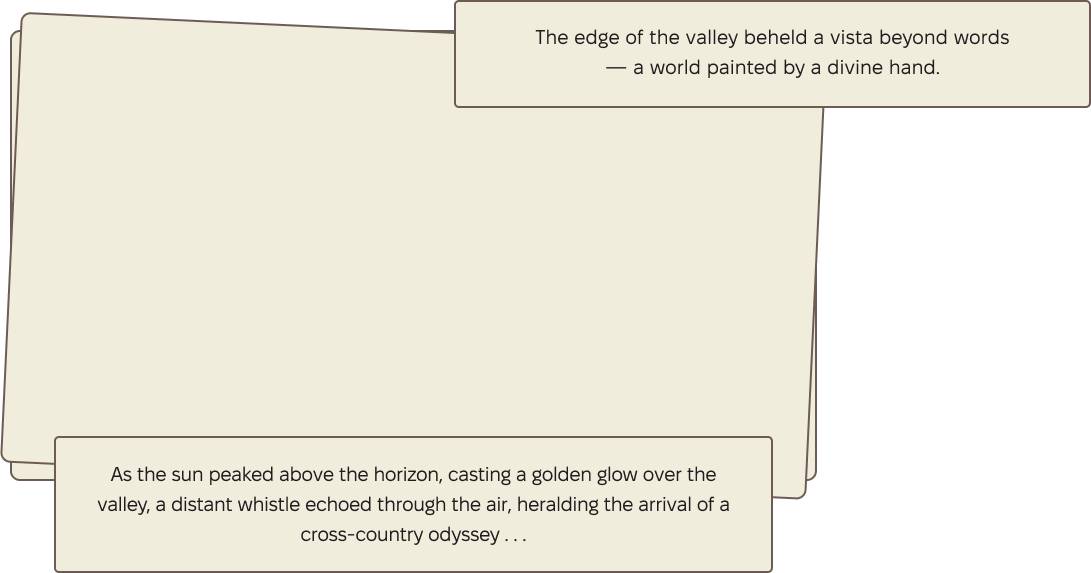
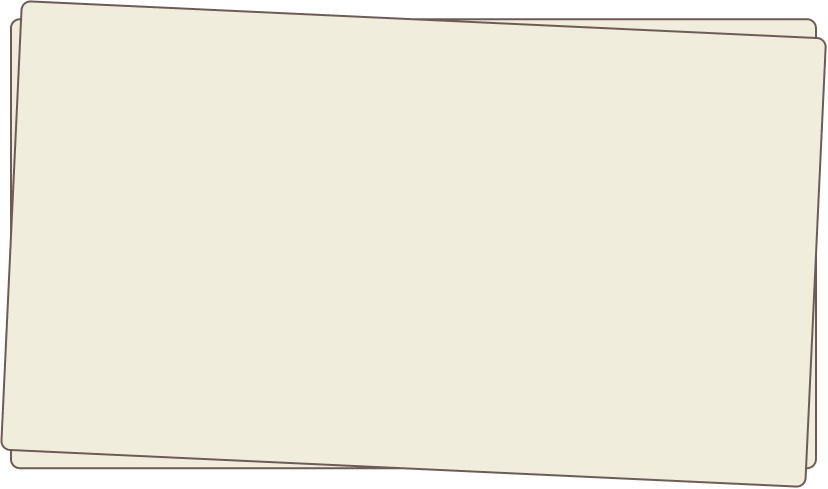
added correct page

diff --git a/src/app/page.tsx b/src/app/page.tsx
@@ -89,16 +89,21 @@ export default function Home() {
             exit={{ y: 1000, transition: { ease: "backIn", duration: 0.7 } }}
             transition={{ duration: 1, ease: "backInOut", delay: 0.5 }}
           >
+              <div className="border-2 rounded-[5px] border-[#6D5C55] text-center sm:text-[16px] text-[10px] sm:px-2 sm:py-4  py-4 px-1 absolute bg-[#F1EDDD] sm:bottom-[44rem]  bottom-[40rem] sm:right-[20rem] right-[0.8rem]">
+              The edge of the valley beheld a vista beyond words <br>
+              </br>  — a world painted by a divine hand.
+              </div>
             <div className="flex-1 flex items-center justify-center">
+            
               <img
-                src="/art-4.png"
+                src="/art-3.png"
                 alt="Art 3"
                 className="sm:max-w-xl max-w-[350px]"
               />
-              <div className="border-2 rounded-[5px] border-[#6D5C55] text-center sm:text-[16px] text-[10px] sm:px-6 py-5 px-2 absolute bg-[#F1EDDD] sm:bottom-[22rem] bottom-[26rem]  ">
-                In the beginning, whispers carried tales of a hidden valley
-                untouched<br></br> by humanity, where emerald forest danced with
-                mist and sapphire<br></br> lakes mirrored the sky
+              <div className="border-2 rounded-[5px] border-[#6D5C55] text-center sm:text-[16px] text-[10px] sm:px-2 sm:py-4  py-4 px-1 absolute bg-[#F1EDDD] sm:bottom-[23rem] bottom-[27rem]  ">
+               As the sun peaked above the horizon, casting a golden glow over the <br>
+               </br> valley, a distant whistle echoed through the air, heralding the arrival of a<br>
+               </br> cross-country odyssey ..
               </div>
             </div>
 
